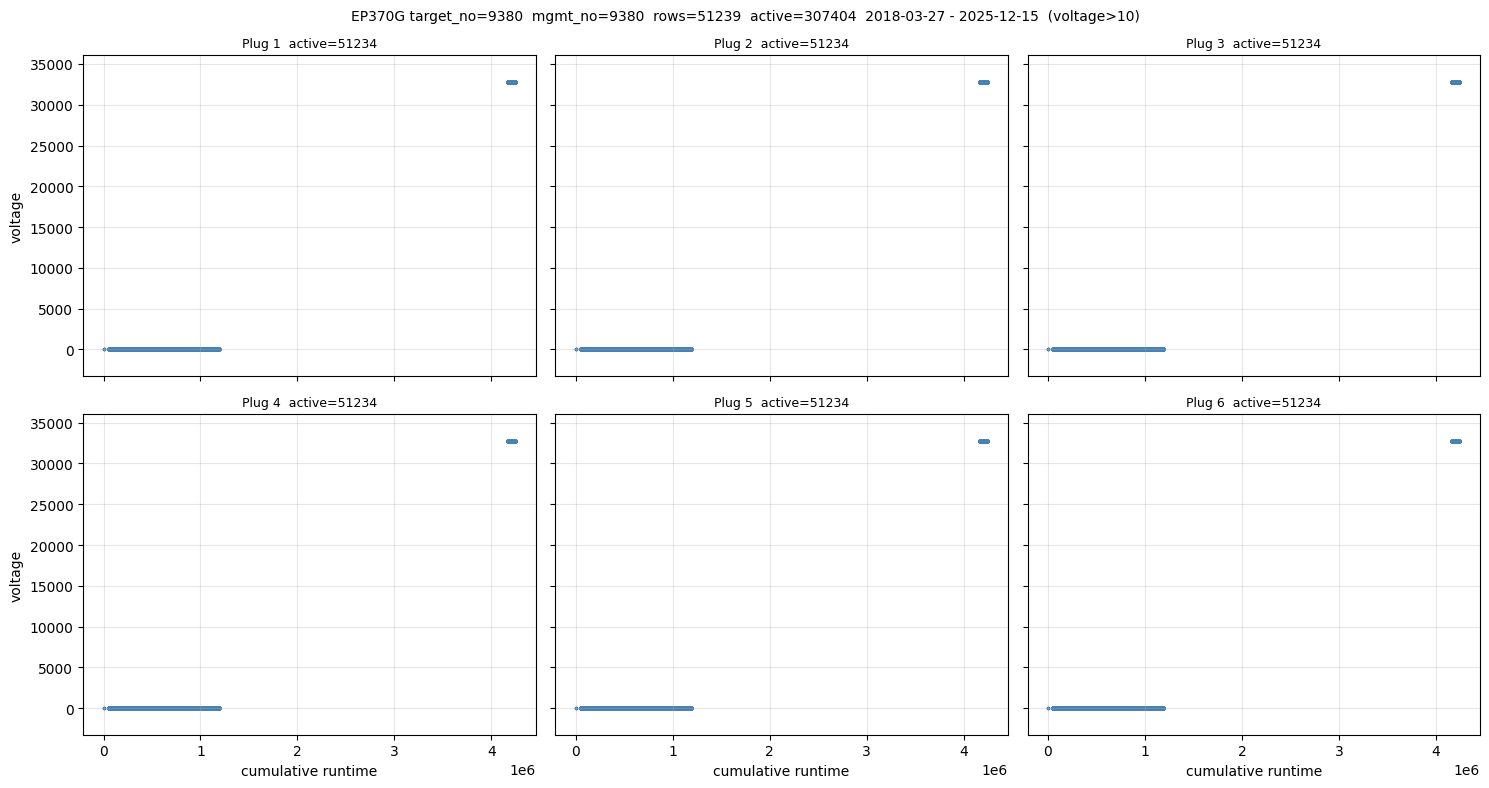
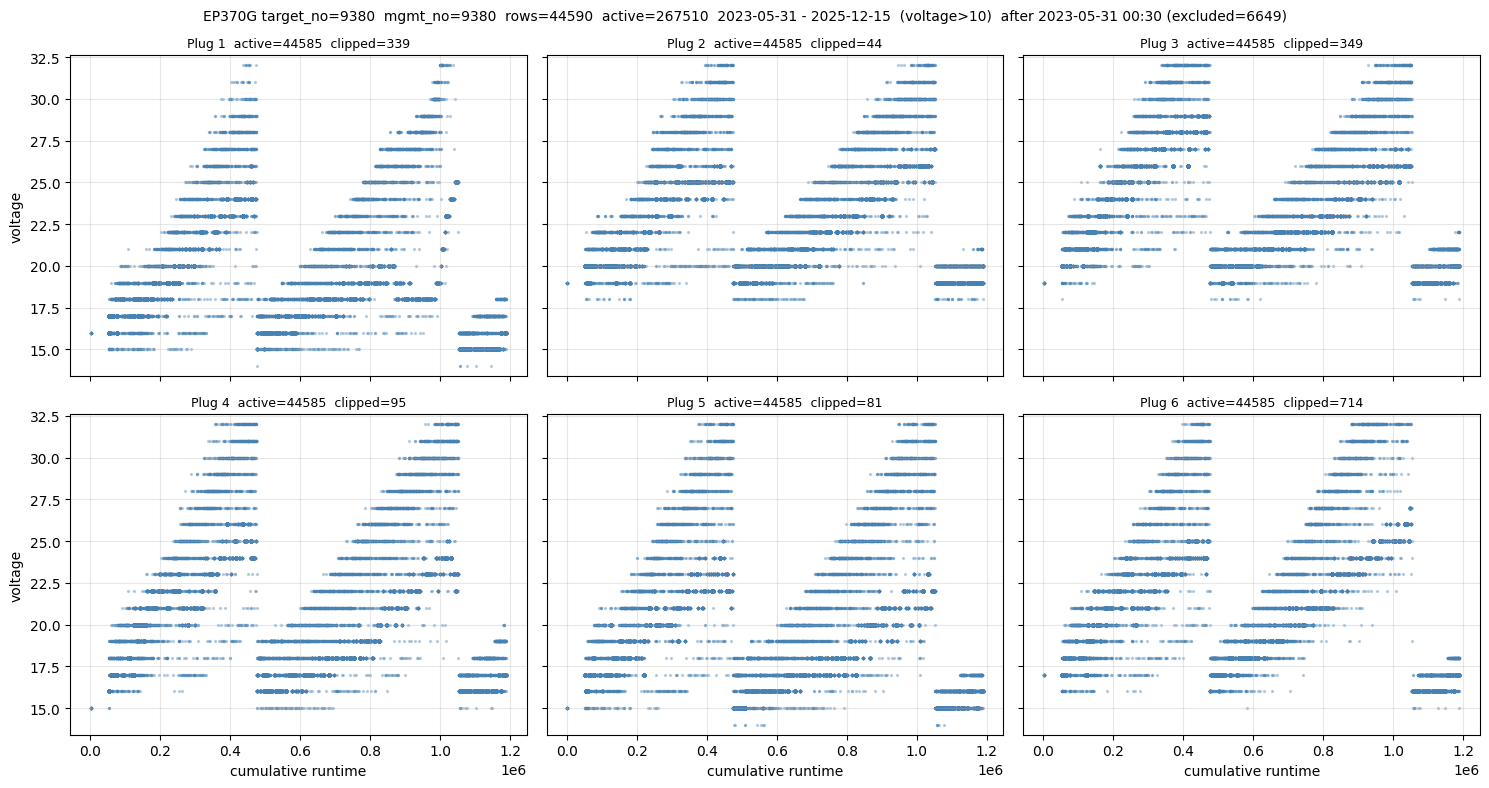
feat(migration): apply ADR-012 EP370G per-location datetime cutoff
プロット生成時に EP370G の 5 機場（5630/9290/9380/9381/9690）に対して
ADR-012 の機場別開始日時カットオフを適用し、早期不適データを除外した
散布図を再生成。EP400G は影響なし。

diff --git a/migration/plot_voltage_vs_runtime.py b/migration/plot_voltage_vs_runtime.py
@@ -5,11 +5,13 @@
 - 横軸: 累積運転時間、縦軸: 要求電圧、点のサイズと透明度で密度を視認。
 - 列名差（EP370G 形式の `要求電圧_1..6` / EP400G 形式の `要求電圧1..6`）は自動判別。
 - **要求電圧 <= 10 の行はアイドル扱いで無視**（発電機停止時の 0 や低電圧ノイズを除外）。
+- **EP370G は ADR-012 の機場別開始日時カットオフを適用**（5630/9290/9380/9381/9690）。
 """
 
 from __future__ import annotations
 
 import sys
+from datetime import datetime
 from pathlib import Path
 from typing import Final
 
@@ -25,6 +27,15 @@ _VOLTAGE_COLS_UNDERSCORE: Final[tuple[str, ...]] = tuple(f"要求電圧_{i}" for
 # 要求電圧がこれ以下の行はアイドル扱いで無視する（発電機停止時のノイズ除外）
 _IDLE_VOLTAGE_THRESHOLD: Final[float] = 10.0
 
+# ADR-012: EP370G 機場別の開始日時カットオフ（これより前の行は除外）
+_EP370G_START_DATETIMES: Final[dict[str, datetime]] = {
+    "5630": datetime(2022, 6, 26, 0, 30),
+    "9290": datetime(2022, 7, 21, 10, 0),
+    "9380": datetime(2023, 5, 31, 0, 30),
+    "9381": datetime(2023, 5, 31, 14, 0),
+    "9690": datetime(2024, 3, 19, 8, 30),
+}
+
 
 def _resolve_voltage_cols(path: Path) -> tuple[str, ...]:
     head = pd.read_csv(path, encoding="utf-8-sig", nrows=0)
@@ -36,7 +47,12 @@ def _resolve_voltage_cols(path: Path) -> tuple[str, ...]:
     raise ValueError(f"No complete 要求電圧 column set found in {path.name}")
 
 
-def _plot_one(path: Path, out_path: Path, model_label: str) -> None:
+def _plot_one(
+    path: Path,
+    out_path: Path,
+    model_label: str,
+    start_dt: datetime | None = None,
+) -> None:
     voltage_cols = _resolve_voltage_cols(path)
     df = pd.read_csv(
         path,
@@ -45,6 +61,10 @@ def _plot_one(path: Path, out_path: Path, model_label: str) -> None:
         dtype={_MGMT_COL: str},
     )
     df[_DT_COL] = pd.to_datetime(df[_DT_COL], errors="coerce")
+    rows_before_cutoff = len(df)
+    if start_dt is not None:
+        df = df[df[_DT_COL] >= start_dt].reset_index(drop=True)
+    rows_excluded = rows_before_cutoff - len(df)
     mgmt_no = str(df[_MGMT_COL].iloc[0]) if len(df) else path.stem
 
     fig, axes = plt.subplots(2, 3, figsize=(15, 8), sharex=True, sharey=True)
@@ -93,9 +113,12 @@ def _plot_one(path: Path, out_path: Path, model_label: str) -> None:
     dt_range = ""
     if pd.notna(dt_start) and pd.notna(dt_end):
         dt_range = f"{dt_start:%Y-%m-%d} - {dt_end:%Y-%m-%d}"
+    cutoff_note = ""
+    if start_dt is not None:
+        cutoff_note = f"  after {start_dt:%Y-%m-%d %H:%M} (excluded={rows_excluded})"
     fig.suptitle(
         f"{model_label} target_no={path.stem}  mgmt_no={mgmt_no}  rows={len(df)}  "
-        f"active={total_active}  {dt_range}  (voltage>{_IDLE_VOLTAGE_THRESHOLD:.0f})",
+        f"active={total_active}  {dt_range}  (voltage>{_IDLE_VOLTAGE_THRESHOLD:.0f}){cutoff_note}",
         fontsize=10,
     )
     fig.tight_layout()
@@ -109,10 +132,12 @@ def main(model: str) -> int:
         input_dir = Path("E:/gene/input/EP370G_orig")
         out_dir = Path(__file__).parent / "plots" / "ep370g"
         model_label = "EP370G"
+        start_map: dict[str, datetime] = dict(_EP370G_START_DATETIMES)
     elif model_key == "ep400g":
         input_dir = Path("E:/gene/input/EP400G_orig")
         out_dir = Path(__file__).parent / "plots" / "ep400g"
         model_label = "EP400G"
+        start_map = {}
     else:
         print(f"Unknown model: {model}. Expected EP370G or EP400G.", file=sys.stderr)
         return 2
@@ -127,8 +152,9 @@ def main(model: str) -> int:
     failed: list[tuple[str, str]] = []
     for i, path in enumerate(csvs, 1):
         out_path = out_dir / f"{path.stem}.png"
+        start_dt = start_map.get(path.stem)
         try:
-            _plot_one(path, out_path, model_label)
+            _plot_one(path, out_path, model_label, start_dt=start_dt)
         except Exception as exc:
             failed.append((path.name, str(exc)))
             print(f"  [{i}/{len(csvs)}] {path.name}: ERROR {exc}", file=sys.stderr)
